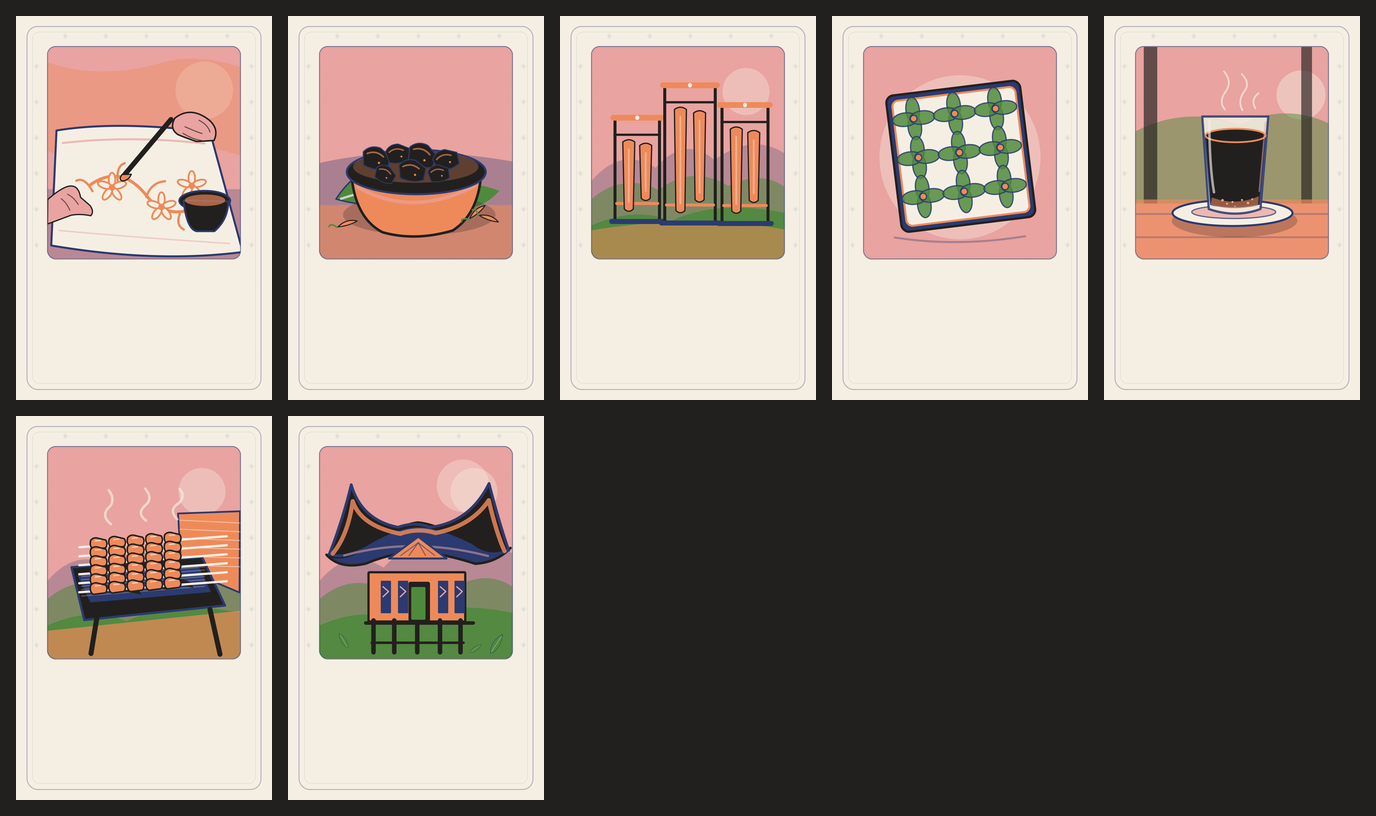
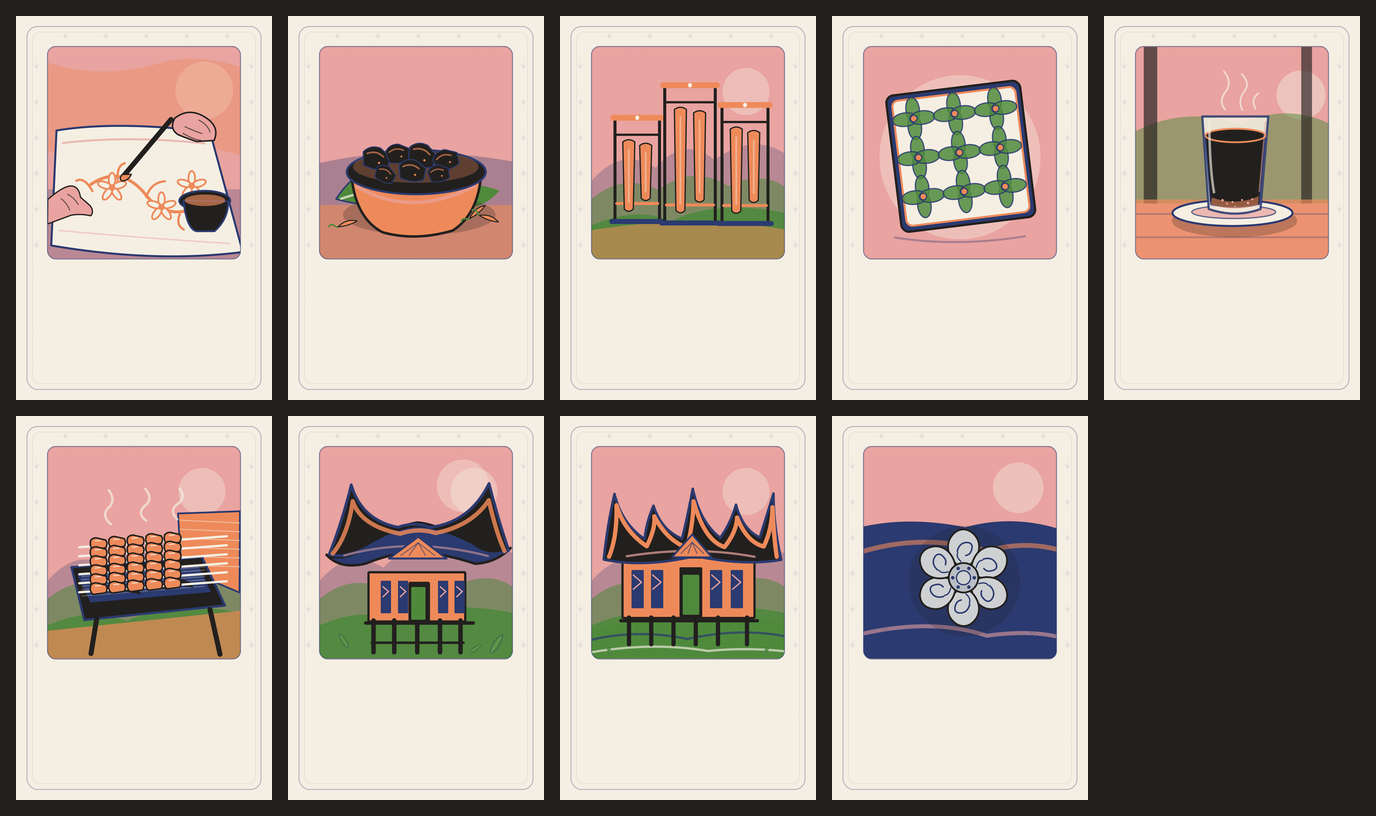
Souvenirs: approve rumah-gadang and kotagede-silver from 4c; prompt 4d for the last four
Becak, gamelan, wayang and raja-ampat from the 4c batch still miss (wrong
becak structure, bell-like kettles, a walking cartoon instead of a wayang
kulit profile, islets that read as lily pads). Prompt 4d spells out the
shapes. Prompt 6 now asks for the image tool, not code drawing.

Claude-Session: https://claude.ai/code/session_01TjNARVkaoGmAHnjntu9hvk

Changed region(s): [[0.4062, 0.4902, 0.8125, 0.9804]]

diff --git a/docs/VISUAL-ASSETS.md b/docs/VISUAL-ASSETS.md
@@ -395,6 +395,97 @@ natively at its final size.
 
 ---
 
+## Prompt 4d — Souvenir cards, last four
+
+Review of the 4c batch (2026-10-27): rumah-gadang and kotagede-silver are approved and in the repo. Four still miss: becak (drawn as a full two-wheeled bicycle towing a cart, three wheels in a row), gamelan (kettles look like bells, a stray see-through frame over the sky, random cords), wayang (a walking cartoon figure with legs and dots on the head, not a wayang kulit profile, no banana-trunk base) and raja-ampat (islets read as lily pads with leaf veins, seen from the side, one cut by the frame). 4c was drawn with code (SVG), which matches the set's flat look; that is fine, but the shapes must be right.
+
+```text
+Redo FOUR souvenir card illustrations for "Kabar", an Indonesian + Javanese learning
+app. Nine cards of this set are approved; the four new ones must look like they
+belong to the same collection.
+
+BEFORE YOU START:
+- Pull the latest main. Open the approved masters in assets/src/souvenirs/ (batik,
+  rendang, angklung, kawung, kopi-tubruk, sate, tongkonan, rumah-gadang,
+  kotagede-silver .png) and assets/src/souvenirs/contact-sheet.png. Match them
+  exactly: the same flat shapes, the same thick dark outlines, the same pink sky with
+  a pale sun disc, the same rolling hills, the same card frame with a thin rounded
+  border and small indigo marks, the same plain warm paper bottom area, and the same
+  picture size and position on the card.
+
+HOW TO MAKE THEM:
+- Each card is its own image, made directly at 1024x1536 (portrait). Never make a
+  sheet and split it, never upscale, no recolour filters afterwards.
+- Drawing with code (SVG rendered at full size) is fine, since the approved cards
+  look that way, but every subject below must be recognisable and correct. Before
+  saving, look at each card at 256x384 and ask: would an Indonesian recognise this
+  object at a glance? If not, redraw it.
+
+STYLE (identical to the approved cards):
+- FLAT vector-like shapes with bold dark outlines, a few large colour areas, very
+  little texture. Not painterly, not realistic.
+- Palette led by: Merapi charcoal #22201E, sawah green #4F8A3C, Bromo orange #EE8A5A,
+  Bromo pink #E9A3A0, batik indigo #2B3A70, warm paper #F5EFE3. Plants stay green.
+  No gold or yellow-metallic highlights.
+- Respectful, accurate depiction of Indonesian culture; no stereotypes.
+
+HARD RULES: no text, letters, numbers or script anywhere. No logos, watermarks,
+signatures, brands or existing characters. Do not imitate any named artist. Nothing
+may be see-through or overlap the frame; every object sits fully inside the picture
+panel.
+
+CARDS (filename: subject, with exactly what must be right):
+- becak.png: an Indonesian becak, side view, parked under a green tree, facing right.
+  Exactly THREE wheels, and in side view you see only TWO of them: one front wheel
+  under the passenger seat (its twin is hidden behind it) and one rear wheel. At the
+  FRONT (right): a wide passenger bench seat for two with a folding hood (a curved
+  canopy) over it and a low footrest in front of it. BEHIND it (left): a single
+  bicycle saddle raised above the rear wheel, pedals and chain below the saddle,
+  joined to the seat's back by one sturdy frame. The rider's handlebar is a bar
+  behind the hood, NOT a separate bicycle with its own front wheel. No rider.
+- gamelan.png: a Javanese bonang seen from the front and slightly above. A long, low
+  wooden frame (rancak) with carved orange ends, standing on short legs on the
+  ground. On it, TWO straight rows of five bronze kettle gongs each, all the same
+  size, resting on cords stretched along the frame. Each kettle: a wide, low, round
+  pot (wider than tall, like an upturned bowl with a flat shoulder), in Bromo orange
+  with a dark outline, with a small round raised knob (pencu) in the CENTRE OF ITS
+  TOP, and the knob is a solid filled circle, never a ring or a dot pair. Two
+  padded beaters (sticks with indigo cord-wrapped heads) lie on the frame. Nothing
+  else above the frame: just the pink sky and the pale sun.
+- wayang.png: a wayang kulit puppet seen as a shadow on a glowing white screen
+  (kelir) with a dark wooden frame, lit by an oil lamp (blencong) hanging in front
+  near the top. The shadow is ONE solid dark silhouette in STRICT SIDE PROFILE,
+  facing right, standing still (no walking pose): a tall slender body with a long
+  flowing cloth (wiron) falling to the feet, both feet side by side pointing right,
+  a small head with a long pointed nose and a tall pointed headdress, and two very
+  long thin arms hanging down in front, each held by a thin rod (cempurit). Inside
+  the silhouette, a few small cut-out patterns (simple diamonds, circles and curls)
+  so it looks pierced like real leather puppets. No eyes, no face, no dots on the
+  head. One central rod (gapit) runs from the head down through the body into a
+  horizontal banana-trunk (gedebog) at the bottom of the screen, drawn as a pale
+  green log. Original design, not a known character.
+- raja-ampat.png: small karst islets in a turquoise sea, seen from directly ABOVE
+  (map view: no hills, no horizon, no sky, no sun; the whole picture panel is sea).
+  Water in two or three flat turquoise tones, darker in the middle, lighter near the
+  islets. Six or seven islets of different sizes, each a lumpy irregular rounded
+  shape (like a mushroom cap seen from above), filled with two greens (darker rim,
+  lighter top), a dark outline and a pale sand/shallow-water ring around it. No
+  leaf veins, no midribs, no pointed tips: they must not look like leaves or lily
+  pads. All islets fully inside the panel, one small boat (a white speck with a
+  short wake) for scale.
+
+SAVE: masters to assets/src/souvenirs/<name>.png (1024x1536), replacing nothing else.
+Then run: python3 scripts/assets/export_souvenirs.py
+It exports all 13 cards to assets/export/souvenirs/ and rebuilds
+assets/src/souvenirs/contact-sheet.png. Look at the contact sheet: if any of the four
+new cards stands out from the nine approved ones, or any subject is hard to
+recognise at thumbnail size, redo it.
+
+Do not commit. List the files when done.
+```
+
+---
+
 ## Prompt 5 — Journey Map decorations
 
 ```text
@@ -463,6 +554,13 @@ are ORIGINAL fictional adult characters: AI conversation partners and the cast o
 short serialized story. Draw all of them in this one session with the same hand so
 they look like one cast.
 
+HOW TO GENERATE (strict):
+- Use your image generation tool. Do NOT draw the portraits with code (no SVG,
+  Pillow, Cairo or canvas drawing).
+- Generate EACH image as its own separate request, directly at 1024x1024. Never
+  generate a sheet, grid or collage and split it. Never upscale a smaller image; only
+  crop, never enlarge. No post-processing recolour, hue shift or filter.
+
 STYLE (every portrait):
 - Calm, warm, grown-up illustration. Flat vector-like shapes, soft layered depth,
   gentle paper grain, warm soft light. Not photorealistic, not anime, not cartoonish,
@@ -512,7 +610,8 @@ CSS, so keep them square). Make assets/src/personas/cast-sheet.png showing all s
 neutral portraits side by side plus each one's expressions, so I can check
 consistency.
 
-Do not commit. List the files when done.
+Do not commit. List the files when done, and confirm each image was generated
+natively at 1024x1024 with the image tool.
 ```
 
 ---

diff --git a/ATTRIBUTION.md b/ATTRIBUTION.md
@@ -43,6 +43,6 @@ The UI uses system fonts and falls back through IBM Plex Sans Arabic / Noto (OFL
 ## Artwork
 - Custom UI icons (`assets/icons/custom/`): original SVGs drawn for Kabar on the Lucide 24 px grid (`docs/VISUAL-ASSETS.md`, prompt 3). The preview page loads Lucide 0.456.0 (ISC) from unpkg for comparison only.
 - App icon ("Dawn over sawah"): original artwork created for Kabar with Codex (`docs/VISUAL-ASSETS.md`, prompts 1–2). Masters in `assets/src/icon/`; every platform size is exported by `scripts/assets/export_icons.py`.
-- Souvenir cards: original artwork created for Kabar with Codex (`docs/VISUAL-ASSETS.md`, prompts 4b–4c). Masters in `assets/src/souvenirs/`; web sizes exported by `scripts/assets/export_souvenirs.py`.
+- Souvenir cards: original artwork created for Kabar with Codex (`docs/VISUAL-ASSETS.md`, prompts 4b–4d). Masters in `assets/src/souvenirs/`; web sizes exported by `scripts/assets/export_souvenirs.py`.
 - Journey Map art (paper backdrops and 13 landmark vignettes): original artwork created for Kabar with Codex (`docs/VISUAL-ASSETS.md`, prompt 5). Masters in `assets/src/map/`; WebP sizes exported by `scripts/assets/export_map.py` and embedded by `crates/app/src/map_art.rs`. The map geometry itself is Natural Earth (see above).
 - Background pattern: original kawung-inspired geometry generated in code (`crates/app/src/theme.rs`).
